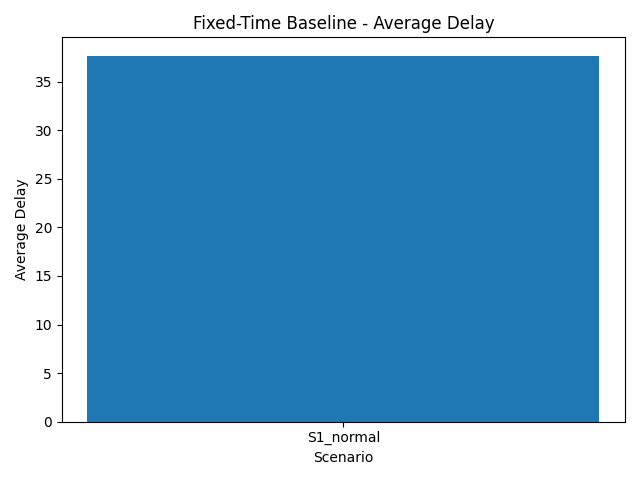
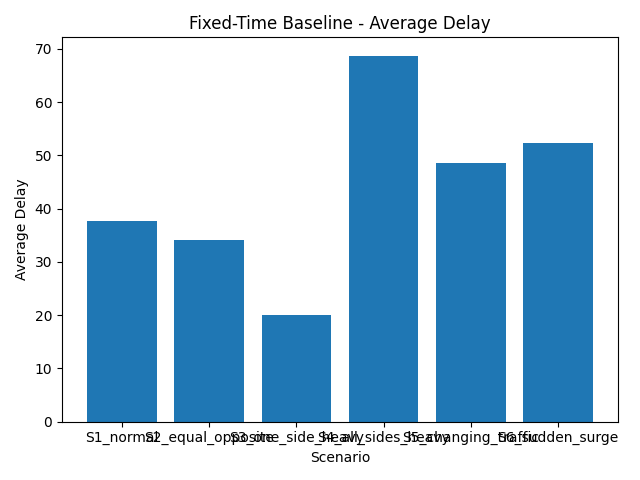
Update fixed-time baseline evaluation

diff --git a/baseline/fixed_time_baseline.py b/baseline/fixed_time_baseline.py
@@ -34,15 +34,22 @@ def start_sumo(scenario_name):
         scenario_name
     )
 
+    # Find the SUMO configuration file automatically
+    config_files = [
+        file
+        for file in os.listdir(scenario_dir)
+        if file.endswith(".sumocfg")
+    ]
+
+    if not config_files:
+        raise FileNotFoundError(
+            f"SUMO configuration not found:\n{scenario_dir}"
+        )
+
     config_file = os.path.join(
         scenario_dir,
-        "normal.sumocfg"
+        config_files[0]
     )
-
-    if not os.path.exists(config_file):
-        raise FileNotFoundError(
-            f"SUMO configuration not found:\n{config_file}"
-        )
 
     command = [
         SUMO_BINARY,
@@ -89,7 +96,7 @@ def collect_metrics():
         total_steps += 1
 
         # ------------------------------------------
-        # THROUGHput
+        # THROUGHPUT
         # ------------------------------------------
 
         arrived = traci.simulation.getArrivedNumber()
@@ -107,7 +114,9 @@ def collect_metrics():
 
         for vehicle_id in vehicle_ids:
 
-            speed = traci.vehicle.getSpeed(vehicle_id)
+            speed = traci.vehicle.getSpeed(
+                vehicle_id
+            )
 
             # Waiting vehicle
             if speed < 0.1:
@@ -119,31 +128,42 @@ def collect_metrics():
             )
 
             if allowed_speed > 0:
+
                 delay = max(
                     0.0,
                     1.0 - (speed / allowed_speed)
                 )
+
                 current_delay += delay
 
-        # Queue length
+        # ------------------------------------------
+        # QUEUE LENGTH
+        # ------------------------------------------
+
         for direction in LANES:
 
             for lane in LANES[direction]:
 
                 try:
+
                     current_queue += (
                         traci.lane.getLastStepHaltingNumber(
                             lane
                         )
                     )
+
                 except Exception:
+
                     pass
 
         total_waiting_time += current_waiting
         total_queue_length += current_queue
         total_delay += current_delay
 
-        # Print progress every 100 steps
+        # ------------------------------------------
+        # PRINT PROGRESS
+        # ------------------------------------------
+
         if total_steps % 100 == 0:
 
             print(
@@ -192,7 +212,8 @@ def collect_metrics():
 
 if __name__ == "__main__":
 
-    scenario = "S1_normal"
+    # Keep S1 for the first test
+    scenario = "S6_sudden_surge"
 
     try:
 
@@ -240,8 +261,10 @@ if __name__ == "__main__":
     finally:
 
         try:
+
             traci.close()
             print("\nSUMO simulation closed.")
 
         except Exception:
+
             pass
